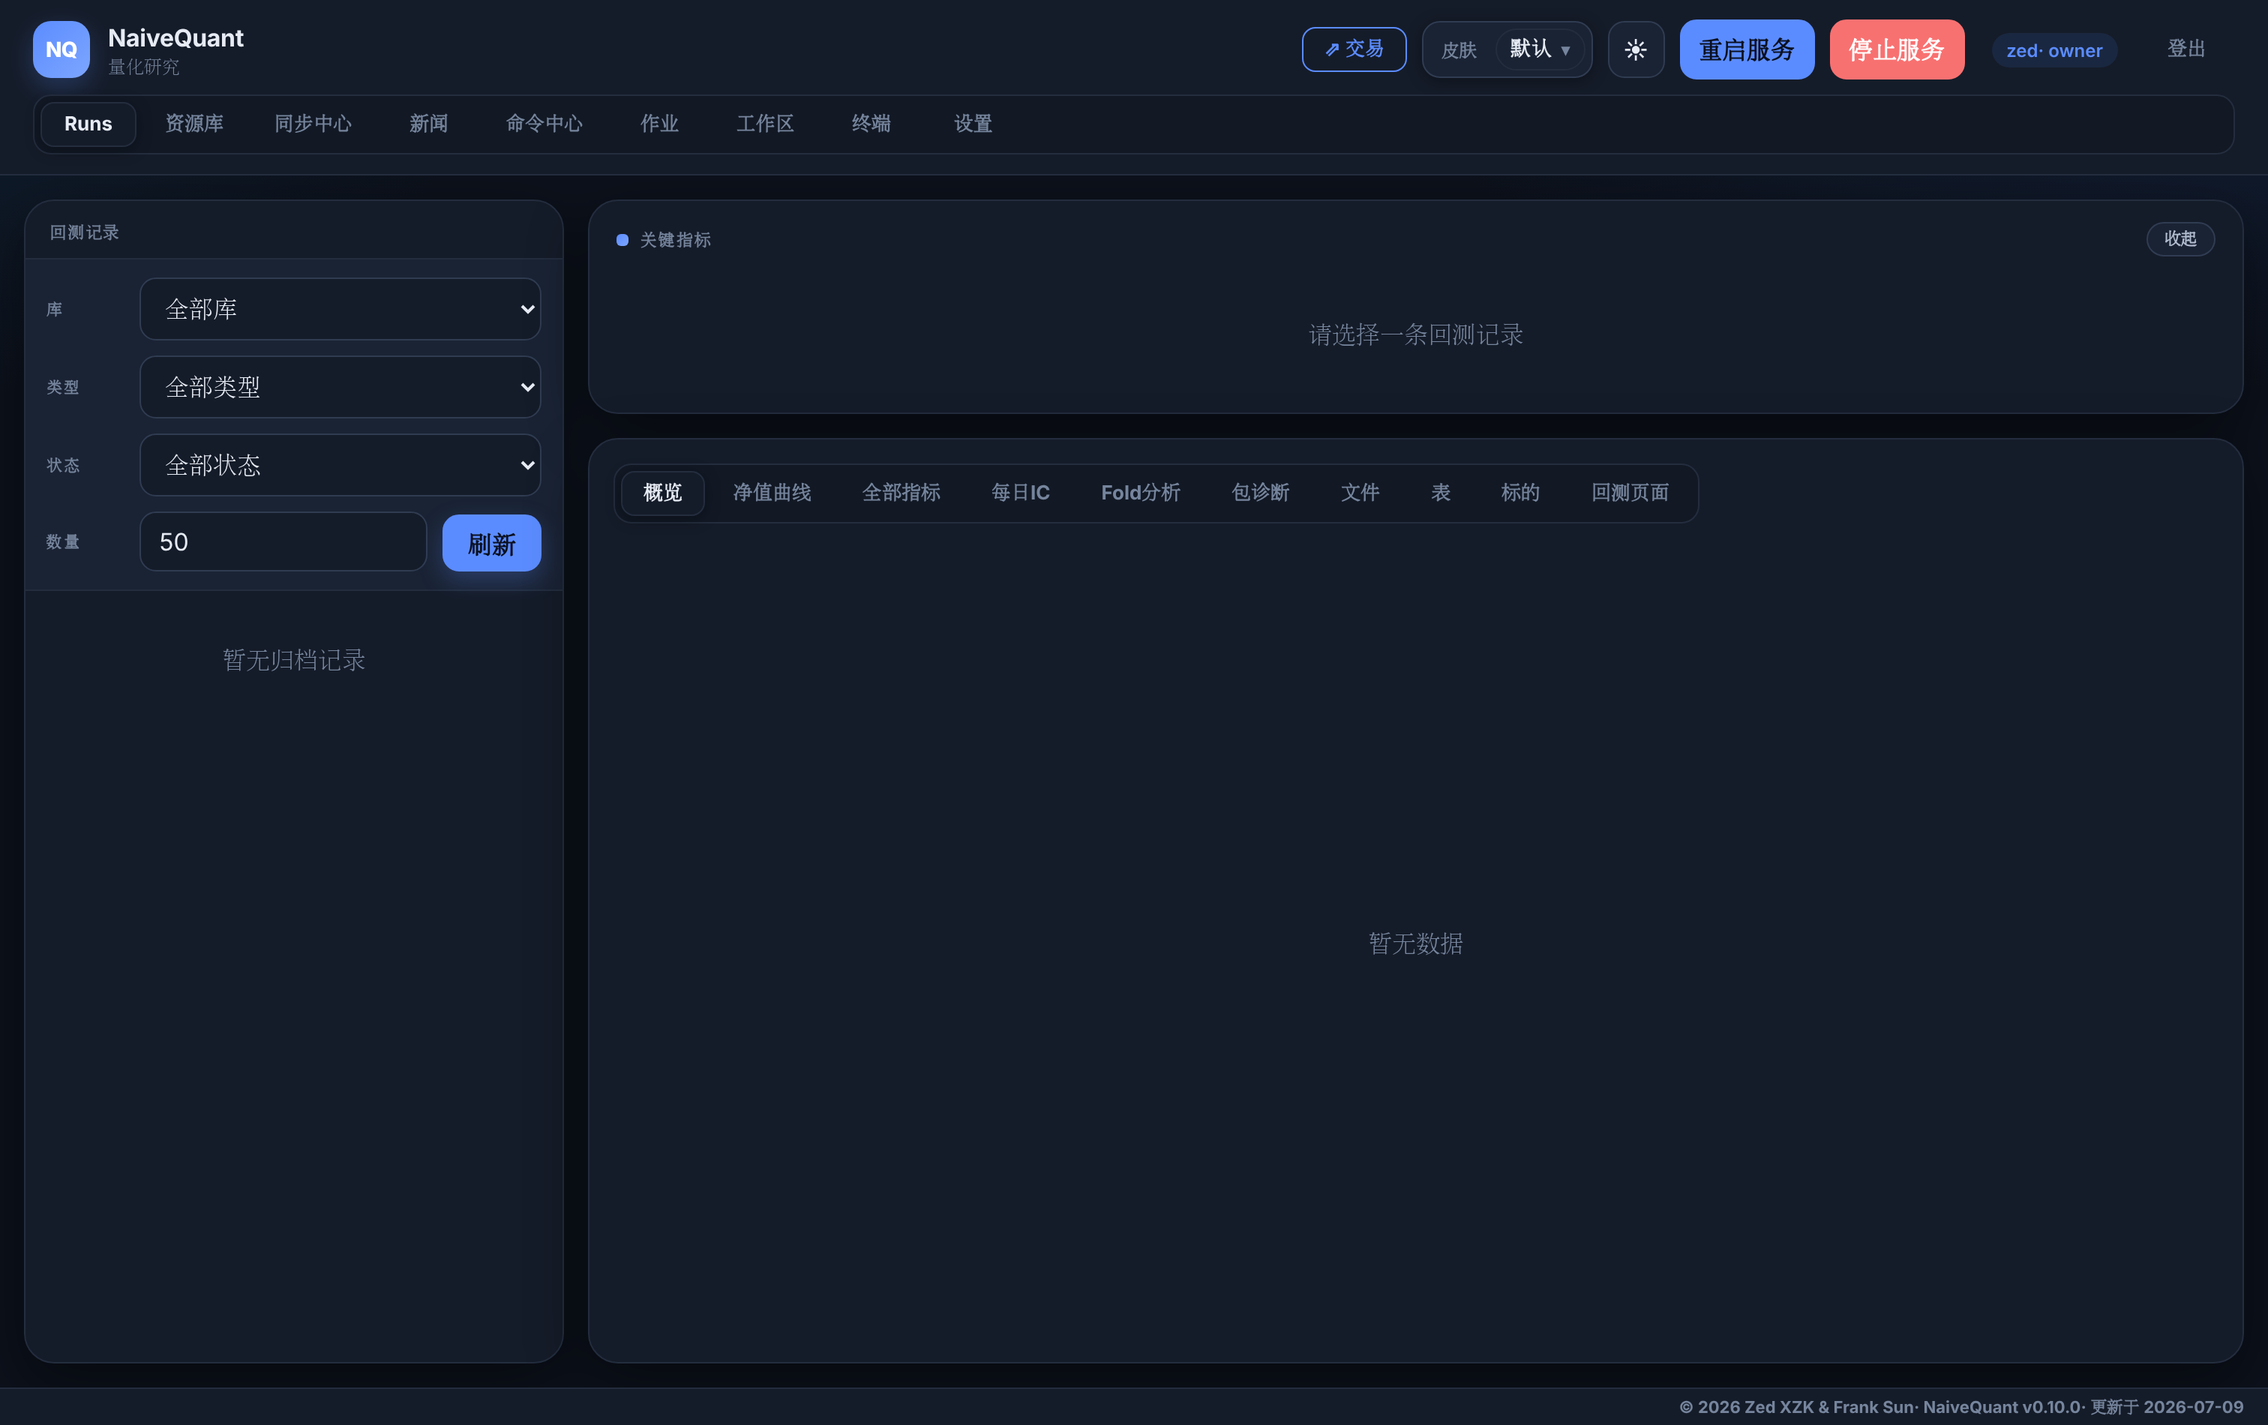
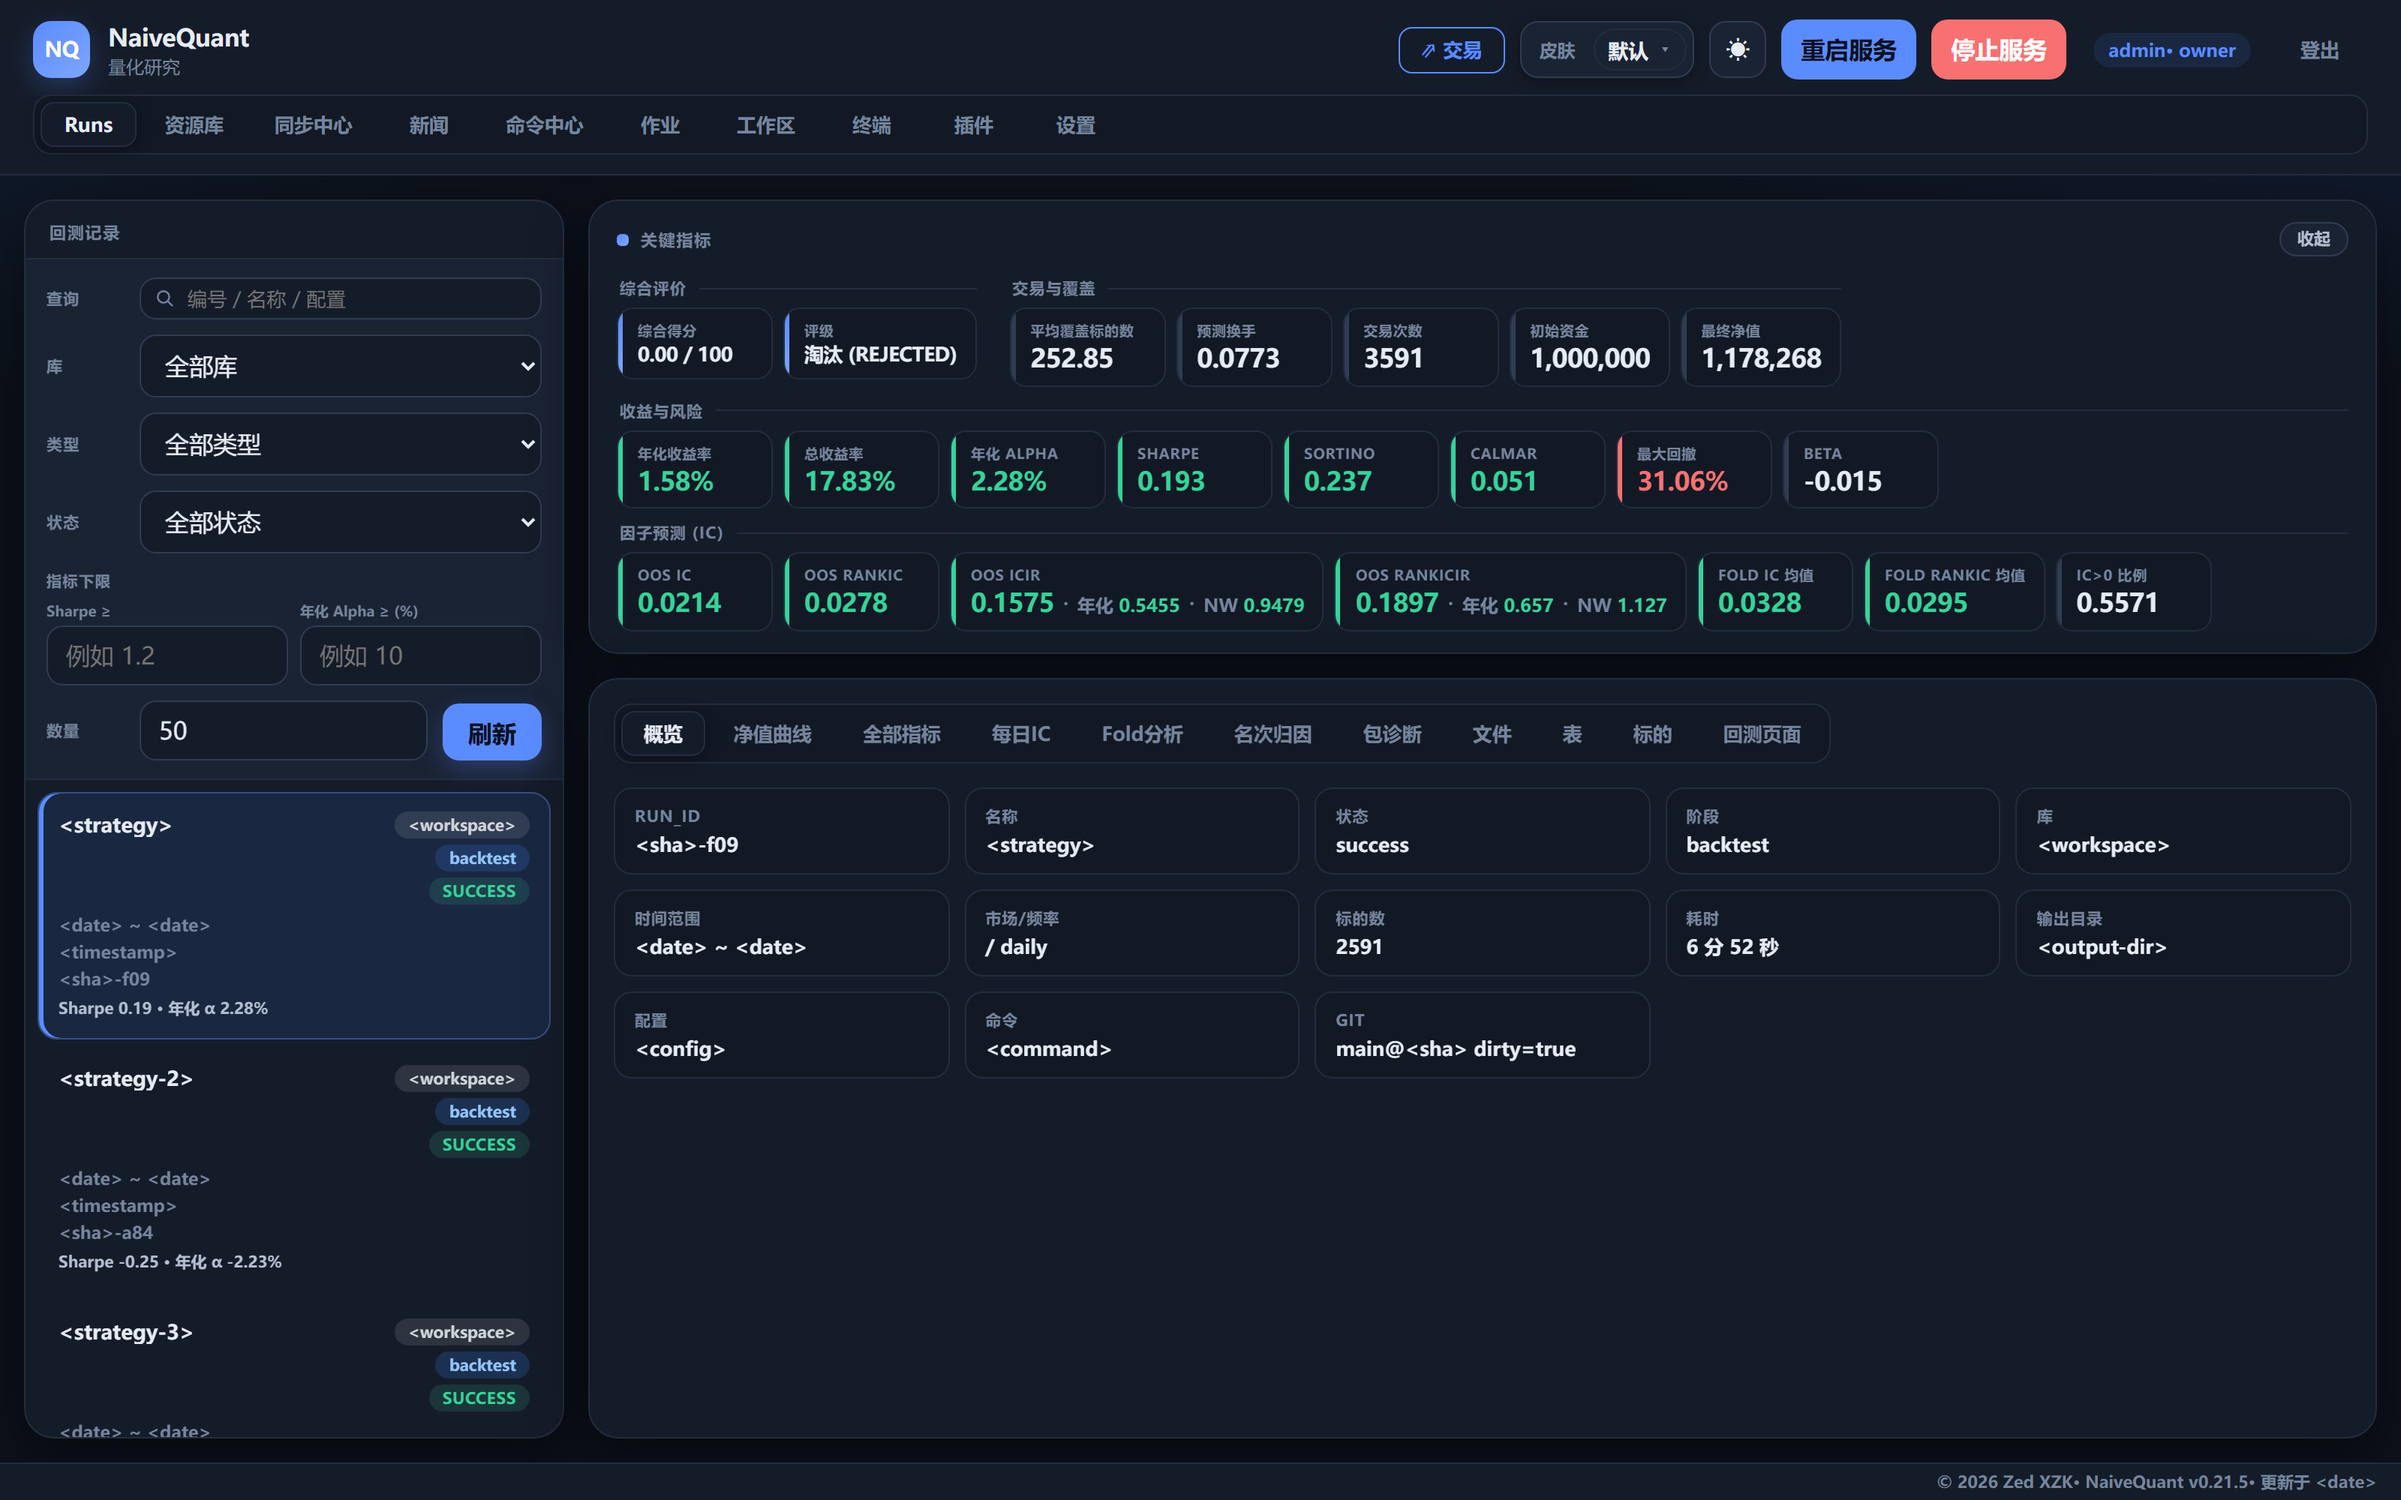
docs: 更新界面截图至 0.21.5（研究台深/浅色 + 插件页），并做脱敏
- 研究台截图重出：0.21.5 实际页签（Runs/资源库/同步中心/新闻/命令中心/
  作业/工作区/终端/插件/设置），内容为回测运行详情与 OOS IC 面板
- 新增插件页截图，配合 README 的「插件体系」一节
- 脱敏：工作区名、策略名、日期与时间戳、本地绝对路径、输出目录、
  git 提交号一律替换为占位符；指标数值与页面结构保持原样
- README 增加脱敏说明，删除"截图取自较早版本"的临时注记

diff --git a/README.md b/README.md
@@ -44,19 +44,24 @@
 
 ### 界面预览
 
-> 以下截图取自较早版本的构建，页签和插件页此后仍有扩充。
+> 截图中的工作区名、策略名、日期时间、本地路径、输出目录和 git 提交号已替换为
+> `<workspace>`、`<strategy>`、`<date>` 等占位符。指标数值、页面结构和版本号未作改动。
 
-**研究控制台**：回测记录、因子库与策略库、数据浏览器、交易与成交记录、插件页、命令中心、工作区、终端，支持深浅色主题。
+**研究控制台**：回测记录、因子库与策略库、数据浏览器、交易与成交记录、插件页、命令中心、作业、工作区、终端，支持深浅色主题。下图为回测运行详情——左侧是可按库/类型/状态/Sharpe/Alpha 过滤的运行列表，右侧汇总综合评级、收益与风险、以及因子预测的 OOS IC / RankIC / ICIR 面板。
 
 | 深色主题 | 浅色主题 |
 |:---:|:---:|
 | ![研究台·深色](assets/research-dark.png) | ![研究台·浅色](assets/research-light.png) |
 
+**插件页**：只列出已加载且当前账户有权限访问的插件；未启用或版本不兼容的插件不会静默隐藏，而是在运维台标记为 error。
+
+![插件页](assets/plugins-dark.png)
+
 **运维监控台**：独立服务，用于查看守护进程状态、数据新鲜度、系统资源遥测和数据库锁状态。
 
 ![运维监控台](assets/ops-dark.png)
 
-> 上图来自本地演示环境，因此守护服务显示为 `inactive`。生产服务器上各常驻服务均正常在线。
+> 运维台截图来自本地演示环境，因此守护服务显示为 `inactive`；生产服务器上各常驻服务均正常在线。
 > 该页面提供只读汇总，以及受 RBAC + TOTP 保护的有限控制操作。
 
 ---
